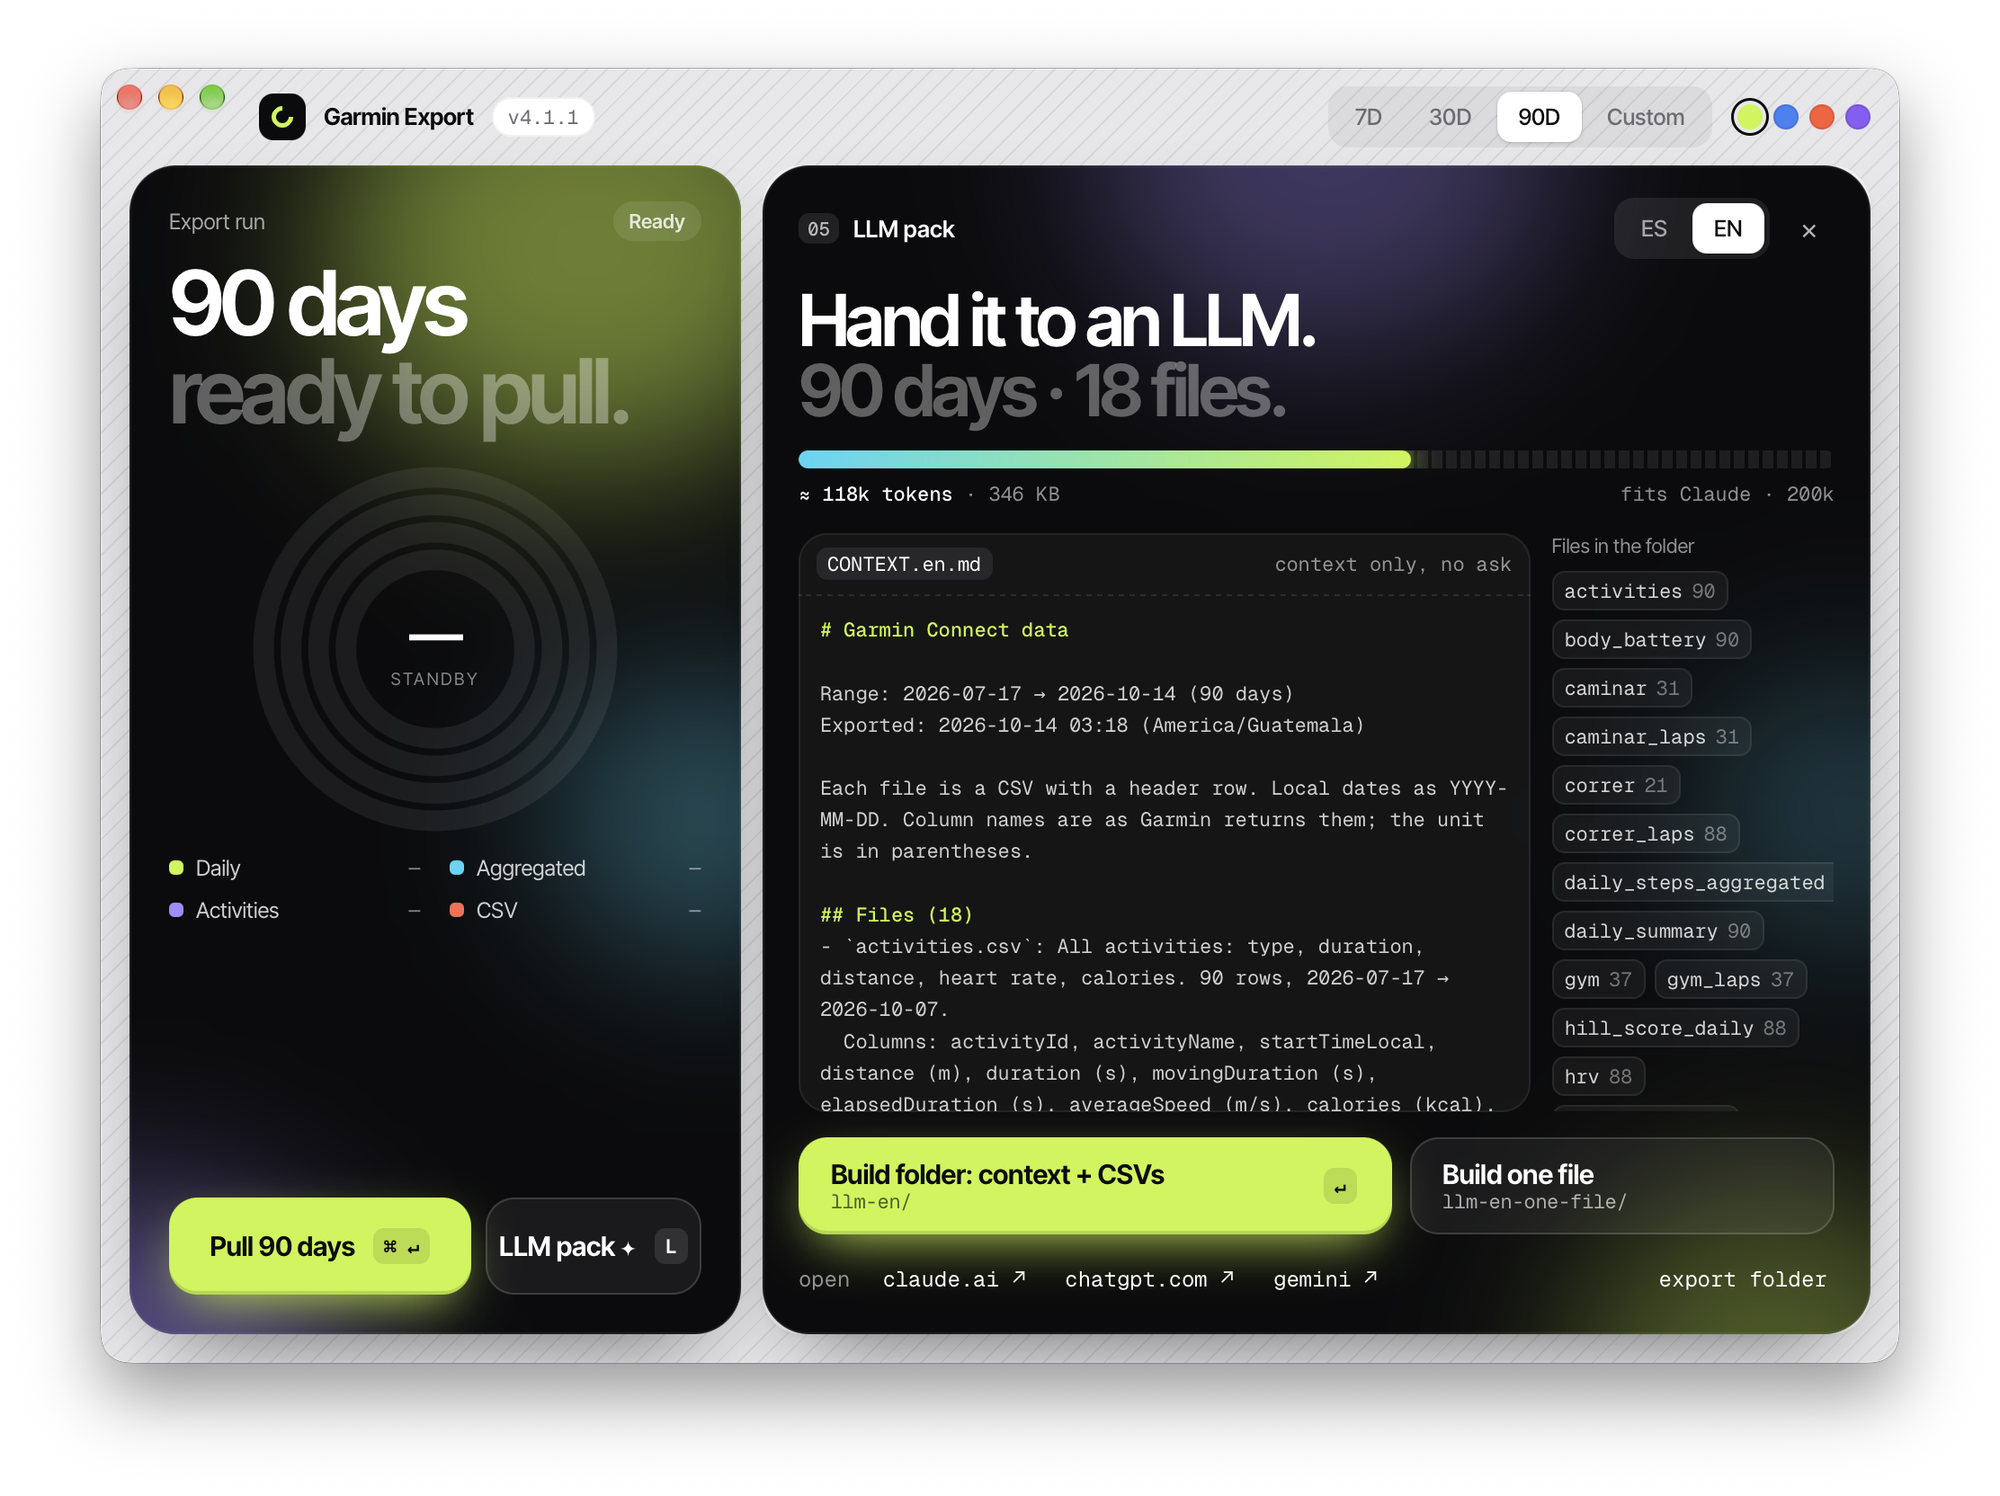
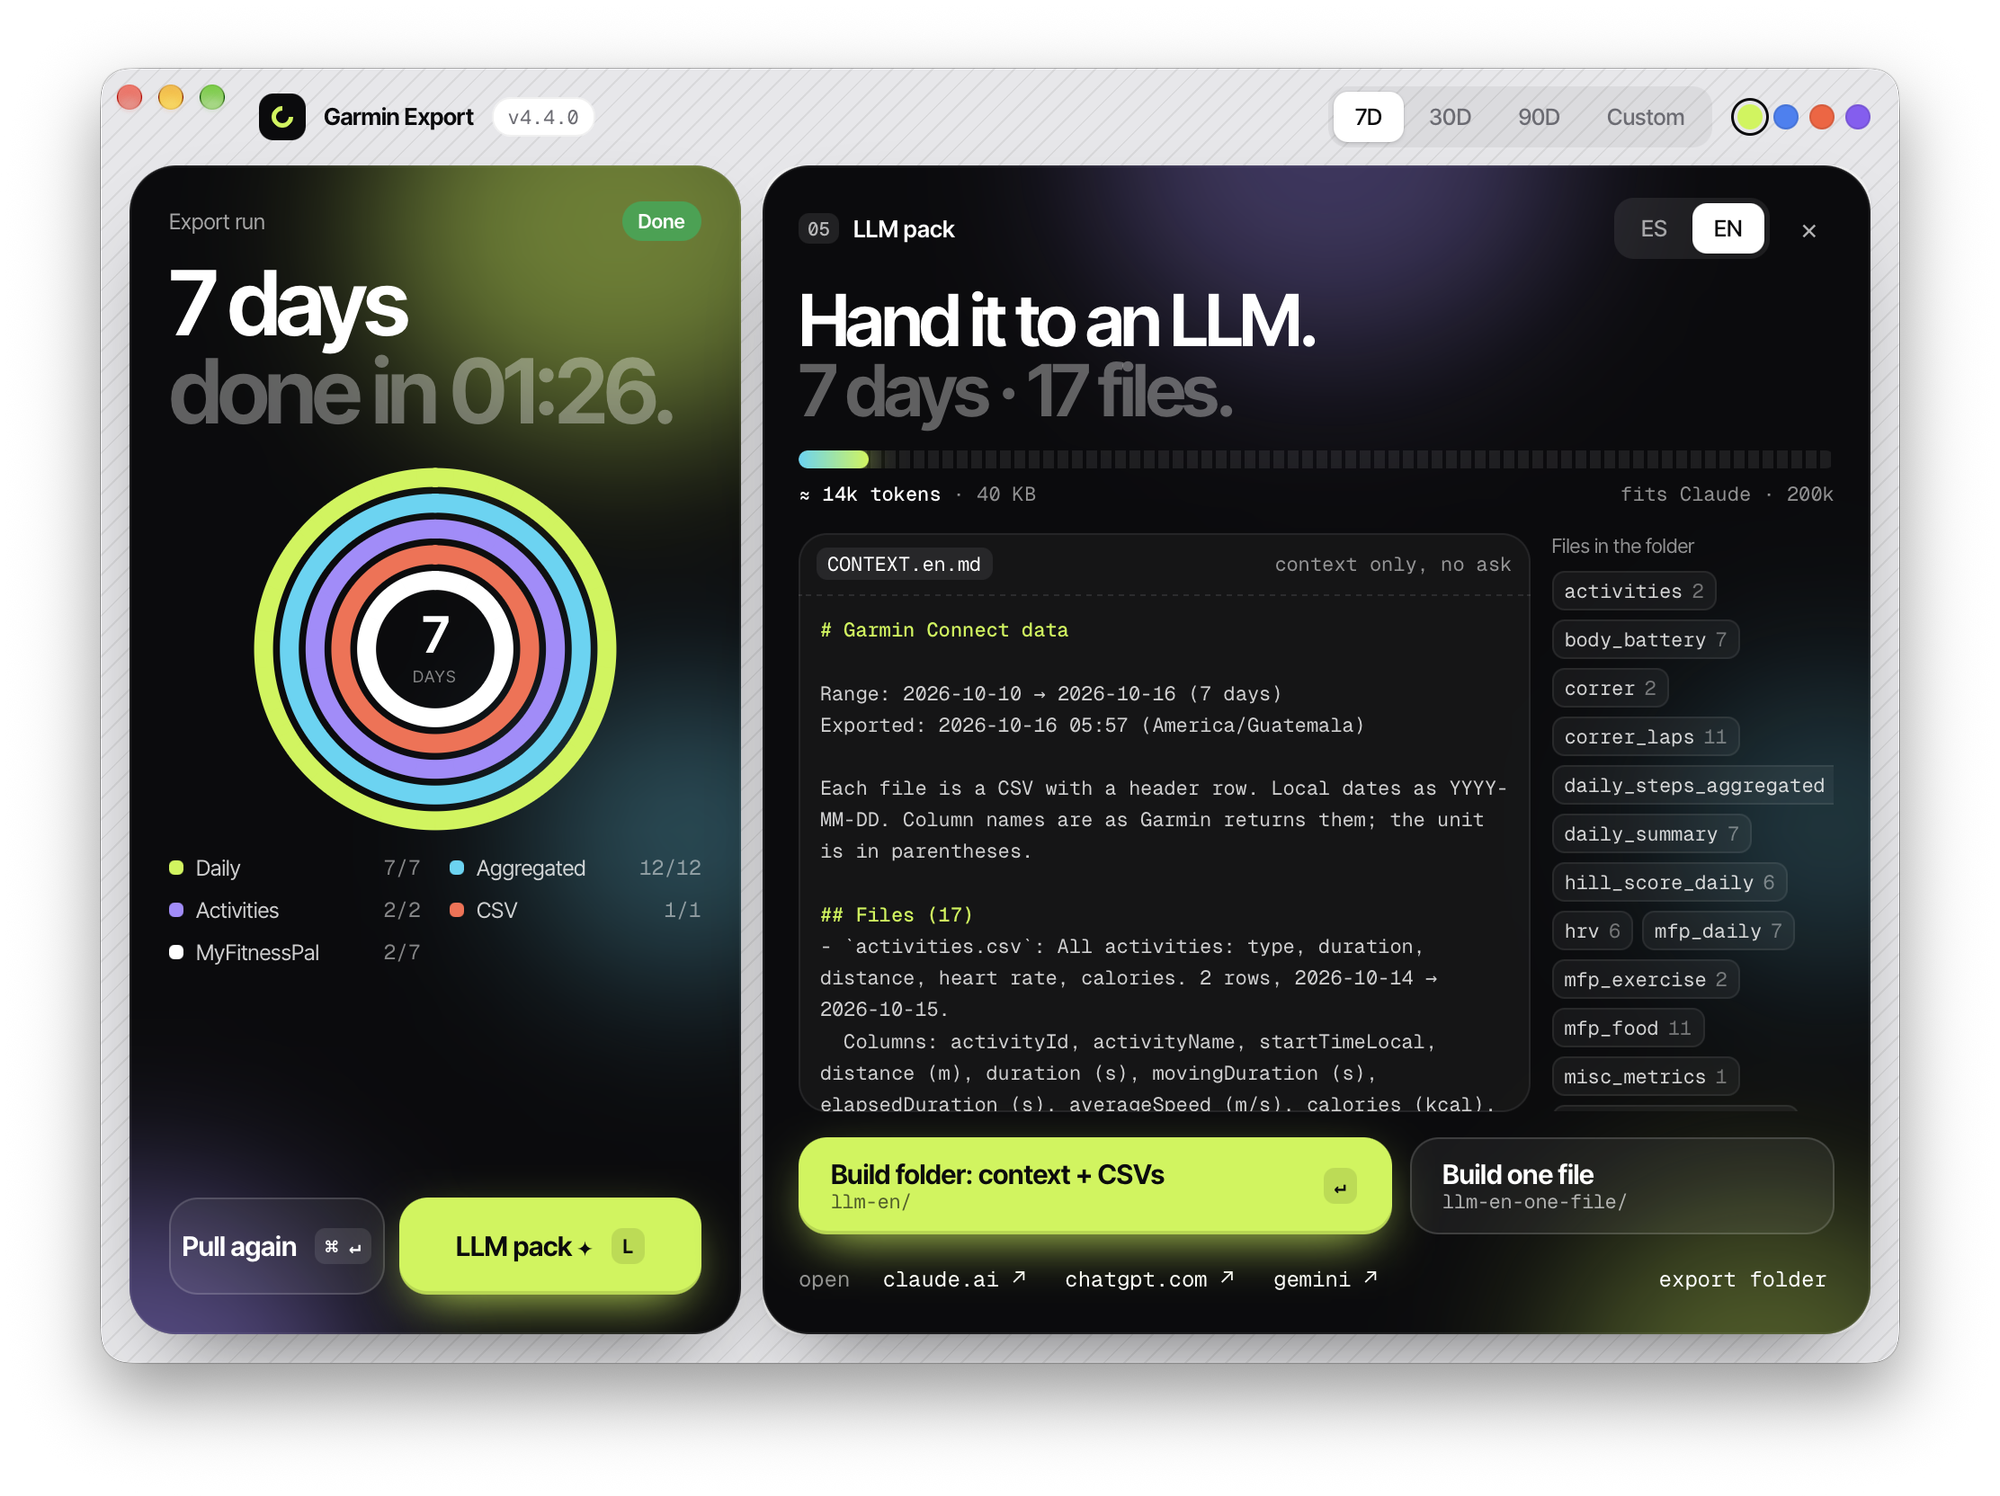
docs: v4.4.0 screenshots in the README, with the four accent colors

diff --git a/README.md b/README.md
@@ -16,7 +16,7 @@
 
 <br>
 
-<img src="docs/images/garmin-export.png" alt="The Garmin Export window with the LLM pack panel open, showing an English context file, a token meter at 118k tokens, 18 CSV files, and the Build folder and Build one file buttons" width="900">
+<img src="docs/images/garmin-export.png" alt="The Garmin Export window after a 7 day export, with the LLM pack panel open: an English context file, a token meter at 14k tokens, 17 files including the MyFitnessPal ones, and the Build folder and Build one file buttons" width="900">
 
 </div>
 
@@ -76,7 +76,11 @@ Each source in the Setup card has an Include switch that turns it on or off for 
 Downloaded days are also kept in a local cache, so a second export of the same range only asks Garmin for the newest days.
 
 <div align="center">
-<img src="docs/images/export-done.png" alt="The main Garmin Export window, with progress rings on the left, the setup and run cards in the middle, and step and sleep charts on the right" width="900">
+<img src="docs/images/export-done.png" alt="The main Garmin Export window after a 7 day export: five progress rings on the left, the Setup card with Garmin Connect and MyFitnessPal both connected, the six run steps, and the step and recovery charts" width="900">
+</div>
+
+<div align="center">
+<img src="docs/images/theme-ocean.png" alt="The LLM pack panel in the ocean accent color" width="290"> <img src="docs/images/theme-coral.png" alt="The LLM pack panel in the coral accent color" width="290"> <img src="docs/images/theme-violet.png" alt="The LLM pack panel in the violet accent color" width="290">
 </div>
 
 ## Give the data to an LLM
